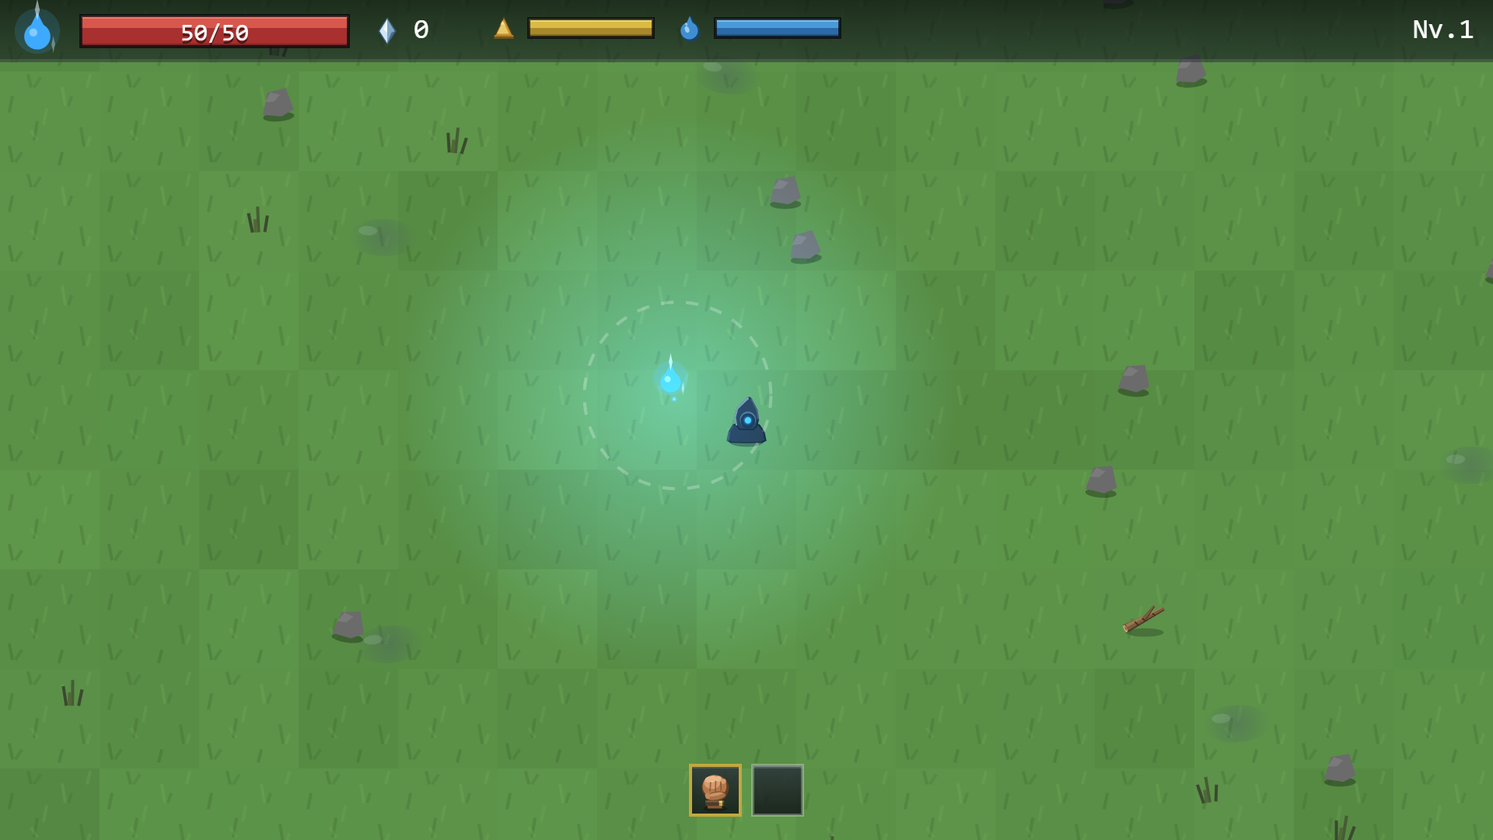
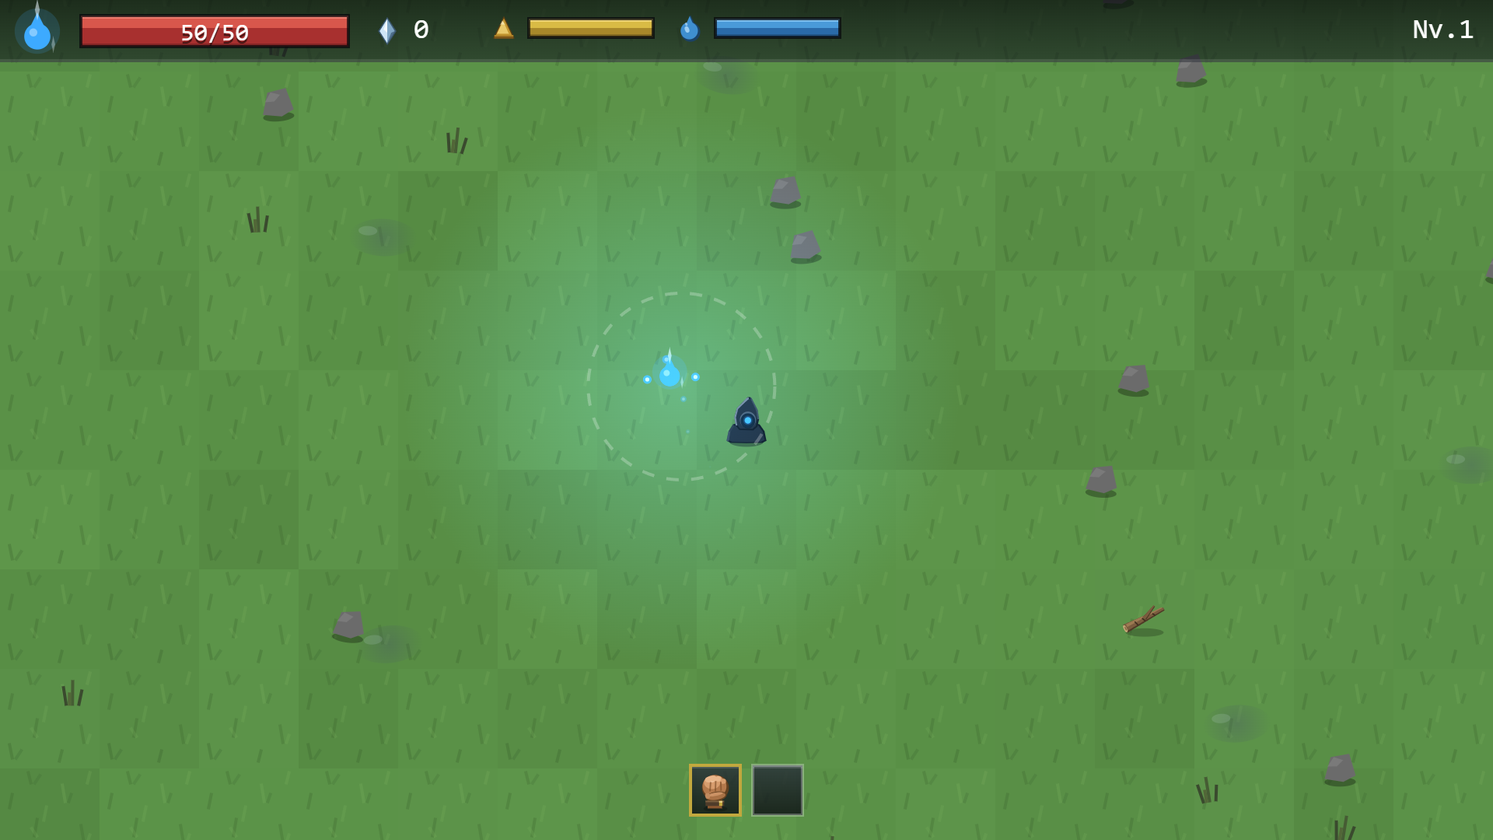
D-134 (Q-58) : en Haut, le follet a des etincelles et son halo respire
Un 4e levier, ornements (Bas 0, Moyen 1 neutre, Haut 2). Deux effets
declarent ornement_min: 2 : trois etincelles en orbite de trois quarts
autour de la silhouette du follet, et un halo dont la teinte respire. La
respiration ne touche jamais le trou perce dans le voile (regle de jeu,
D-35 intouchee). Module pur src/ornements.js ; Moyen dessine au pixel pres.

diff --git a/tests/test_d134_ornements_follet_2026-09-22.js b/tests/test_d134_ornements_follet_2026-09-22.js
@@ -1,0 +1,102 @@
+// `D-134` (`Q-58`) — les ornements du follet : des étincelles en orbite et un
+// halo qui respire, réservés au réglage Haut par un SEUIL déclaré en données.
+//
+// Ce qui se vérifie : le levier `ornements` existe et Moyen reste neutre ;
+// un effet n'existe qu'à partir de son `ornement_min` (Haut oui, Moyen et Bas
+// non), un effet sans seuil existe partout ; la respiration vaut 1 exactement
+// sans effet (Moyen dessine le halo au pixel près) et reste positive avec ;
+// l'orbite passe devant ET derrière ; le schéma refuse ce qui ferait un halo
+// éteint ou une information réservée à une machine. Aucun réglage épinglé
+// (`D-52`). Le chemin de DESSIN de Haut est parcouru par
+// `test_d112_levier_particules` (600 frames dessinées sous chaque preset).
+import assert from 'node:assert/strict';
+import path from 'node:path';
+import { fileURLToPath } from 'node:url';
+import { chargerCataloguesDepuisDisque } from '../src/io_node.js';
+import { SCHEMAS } from '../src/schemas.js';
+import { validerCatalogues, construireRegistre } from '../src/registry.js';
+import { valeurLevier, leviersNonNeutres } from '../src/qualite.js';
+import { ornementActif, etincellesOrbite, facteurRespiration } from '../src/ornements.js';
+
+const RACINE = path.join(path.dirname(fileURLToPath(import.meta.url)), '..');
+const { donnees, erreurs } = await chargerCataloguesDepuisDisque(path.join(RACINE, 'data'), Object.keys(SCHEMAS));
+assert.deepEqual(erreurs, []);
+assert.deepEqual(validerCatalogues(donnees, SCHEMAS), []);
+const registre = construireRegistre(donnees);
+const config = registre.obtenir('graphismes', 'graphismes_presets');
+const niveau = (preset) => valeurLevier(config, preset, 'ornements');
+
+const ornements = registre.tous('effets').filter((e) => e.ornement_min !== undefined);
+assert.ok(ornements.length >= 2, 'les deux ornements du follet sont déclarés');
+
+// --- 1. Le levier, et Moyen neutre ---------------------------------------
+{
+  assert.ok(config.leviers.includes('ornements'));
+  assert.deepEqual(leviersNonNeutres(config, 'moyen'), [], 'Moyen = l\'état actuel, ornements compris');
+  assert.ok(niveau('bas') <= niveau('moyen') && niveau('moyen') <= niveau('haut'), 'Bas ≤ Moyen ≤ Haut');
+  console.log('OK levier `ornements` déclaré, Moyen neutre, ordre des presets tenu');
+}
+
+// --- 2. Le seuil : Haut les a, Moyen et Bas non --------------------------
+{
+  for (const effet of ornements) {
+    assert.equal(ornementActif(effet, niveau('moyen')), null, `${effet.id} : absent en Moyen`);
+    assert.equal(ornementActif(effet, niveau('bas')), null, `${effet.id} : absent en Bas`);
+    assert.equal(ornementActif(effet, niveau('haut')), effet, `${effet.id} : présent en Haut`);
+  }
+  // Un effet d'avant le levier ne peut pas disparaître à cause de lui.
+  const sansSeuil = registre.obtenir('effets', 'effet_sillage_follet');
+  for (const p of ['bas', 'moyen', 'haut']) assert.equal(ornementActif(sansSeuil, niveau(p)), sansSeuil);
+  assert.equal(ornementActif(null, 5), null);
+  console.log(`OK ${ornements.length} ornements présents en Haut seulement ; sans seuil = partout`);
+}
+
+// --- 3. La respiration ----------------------------------------------------
+{
+  const halo = registre.obtenir('effets', 'effet_halo_follet');
+  for (const t of [0, 123, 999, 5000]) assert.equal(facteurRespiration(null, t), 1, 'sans effet : 1 exactement');
+  let min = Infinity;
+  let max = -Infinity;
+  for (let t = 0; t < halo.periode_ms; t += 10) {
+    const f = facteurRespiration(halo, t);
+    min = Math.min(min, f);
+    max = Math.max(max, f);
+  }
+  assert.ok(min > 0, 'le halo ne s\'éteint jamais');
+  assert.ok(max > 1 && min < 1, 'il respire autour de son intensité de Moyen');
+  console.log(`OK respiration : 1 sans effet, [${min.toFixed(2)} ; ${max.toFixed(2)}] avec`);
+}
+
+// --- 4. L'orbite passe devant et derrière --------------------------------
+{
+  const orbite = registre.obtenir('effets', 'effet_ornement_follet');
+  assert.deepEqual(etincellesOrbite(null, 0, 10, 10), []);
+  let devant = 0;
+  let derriere = 0;
+  for (let t = 0; t < orbite.periode_ms; t += 50) {
+    const e = etincellesOrbite(orbite, t, 100, 50);
+    assert.equal(e.length, orbite.nb_particules);
+    for (const p of e) {
+      if (p.devant) devant += 1; else derriere += 1;
+      assert.ok(p.alpha > 0 && p.alpha <= 1);
+      assert.ok(Math.abs(p.x - 100) <= orbite.rayon_orbite_px + 1e-9, 'autour du follet, jamais ailleurs');
+    }
+  }
+  assert.ok(devant > 0 && derriere > 0, 'une orbite, pas un anneau collé devant');
+  console.log('OK orbite : autour du follet, devant puis derrière');
+}
+
+// --- 5. Le schéma ---------------------------------------------------------
+{
+  const casse = (id, modif) => {
+    const copie = structuredClone(donnees);
+    modif(copie.effets.find((e) => e.id === id));
+    return validerCatalogues(copie, SCHEMAS).join('\n');
+  };
+  assert.match(casse('effet_halo_follet', (e) => { e.amplitude = 1; }), /amplitude/);
+  assert.match(casse('effet_halo_follet', (e) => { e.ornement_min = 1.5; }), /ornement_min/);
+  assert.match(casse('effet_texte_gain', (e) => { e.ornement_min = 2; }), /réservé aux effets "cosmetique"/);
+  assert.match(casse('effet_ornement_follet', (e) => { delete e.visuel; }), /visuel/);
+  assert.match(casse('effet_ornement_follet', (e) => { e.periode_ms = 0; }), /periode_ms/);
+  console.log('OK schéma : amplitude, seuil, rôle, visuel et période vérifiés au boot');
+}

diff --git a/src/schemas.js b/src/schemas.js
@@ -1337,9 +1337,70 @@ export const SCHEMAS = {
       // un nombre de particules, et il vit dans l'ÉCRAN et non dans le
       // monde. C'est la branche de plus annoncée juste au-dessus, et rien
       // ailleurs.
-      const TYPES = ['particules', 'texte', 'vol', 'clignement', 'curseur'];
+      // `orbite` et `respiration` (`Q-58`, `D-134`) : les ORNEMENTS du follet —
+      // des étincelles qui lui tournent autour, et un halo qui respire. Ni
+      // l'un ni l'autre ne vit hors de Haut aujourd'hui, et c'est `ornement_min`
+      // qui le dit, pas le type.
+      const TYPES = ['particules', 'texte', 'vol', 'clignement', 'curseur', 'orbite', 'respiration'];
       if (!TYPES.includes(entry.type)) {
         erreurs.push(`${path} > type doit valoir ${TYPES.map((t) => `"${t}"`).join(' ou ')}`);
+        return erreurs;
+      }
+
+      // `ornement_min` (`D-134`, facultatif, tout type) : le niveau du levier
+      // `ornements` à partir duquel l'effet existe. Absent = toujours. C'est un
+      // SEUIL et pas une liste de presets : l'effet ne connaît pas le mot
+      // « haut », il dit de combien d'ornement il a besoin, et le catalogue des
+      // presets dit combien chacun en donne. Seul un effet cosmétique peut en
+      // porter un : ce qui informe le joueur ne se réserve pas à une machine.
+      if (entry.ornement_min !== undefined) {
+        if (!Number.isInteger(entry.ornement_min) || entry.ornement_min < 0) {
+          erreurs.push(`${path} > ornement_min doit être un entier positif ou nul`);
+        } else if (entry.role !== 'cosmetique') {
+          erreurs.push(`${path} > ornement_min est réservé aux effets "cosmetique" (une information ne dépend pas du réglage)`);
+        }
+      }
+
+      if (entry.type === 'orbite') {
+        // Mêmes champs d'orbite que le curseur (`curseur.js#positionsOrbite`
+        // les lit tels quels), plus l'échelle d'une étincelle.
+        if (!Number.isInteger(entry.nb_particules) || entry.nb_particules < 0) {
+          erreurs.push(`${path} > nb_particules doit être un entier positif ou nul`);
+        }
+        if (typeof entry.rayon_orbite_px !== 'number' || entry.rayon_orbite_px < 0) {
+          erreurs.push(`${path} > rayon_orbite_px doit être un nombre positif ou nul`);
+        }
+        if (typeof entry.aplatissement !== 'number' || entry.aplatissement < 0 || entry.aplatissement > 1) {
+          erreurs.push(`${path} > aplatissement doit être un nombre entre 0 et 1 (1 = orbite ronde, 0 = orbite plate)`);
+        }
+        if (typeof entry.periode_ms !== 'number' || entry.periode_ms <= 0) {
+          erreurs.push(`${path} > periode_ms doit être un nombre strictement positif`);
+        }
+        if (entry.sens !== 1 && entry.sens !== -1) {
+          erreurs.push(`${path} > sens doit valoir 1 ou -1 (sens de rotation, jamais un facteur)`);
+        }
+        if (typeof entry.phase_rad !== 'number' || !Number.isFinite(entry.phase_rad)) {
+          erreurs.push(`${path} > phase_rad doit être un nombre fini`);
+        }
+        if (typeof entry.echelle !== 'number' || entry.echelle <= 0) {
+          erreurs.push(`${path} > echelle doit être un nombre strictement positif`);
+        }
+        if (typeof entry.visuel !== 'string') {
+          erreurs.push(`${path} > visuel (l'étincelle) est requis pour un effet de type "orbite"`);
+        }
+        return erreurs;
+      }
+
+      if (entry.type === 'respiration') {
+        // Un facteur qui oscille autour de 1 : 1 ± amplitude. Une amplitude
+        // ≥ 1 ferait passer le facteur par zéro (halo éteint à chaque souffle)
+        // ou sous zéro (un alpha négatif) — refusé au boot.
+        if (typeof entry.periode_ms !== 'number' || entry.periode_ms <= 0) {
+          erreurs.push(`${path} > periode_ms doit être un nombre strictement positif`);
+        }
+        if (typeof entry.amplitude !== 'number' || entry.amplitude < 0 || entry.amplitude >= 1) {
+          erreurs.push(`${path} > amplitude doit être un nombre dans [0, 1[ (le facteur reste positif)`);
+        }
         return erreurs;
       }
 

diff --git a/src/main.js b/src/main.js
@@ -18,6 +18,7 @@ import { creerSourceTactile } from './input/touch.js';
 import { creerPleinEcranTactile } from './plein_ecran.js';
 import { verrouillerMenuContextuel } from './souris.js';
 import { creerCurseur } from './curseur.js';
+import { ornementActif, etincellesOrbite, facteurRespiration } from './ornements.js';
 import { creerCoucheInput, etatNeutre } from './input/input.js';
 import { chargerScene, resoudreDeplacement, portailFranchi, trouverPositionLibrePlusProche } from './scene.js';
 import { calculerCamera } from './camera.js';
@@ -822,6 +823,8 @@ export function creerOrchestrateurGrotte({
       effetSillageCatalogue, levier('particules'), { capacite: CAPACITE_RESERVE },
     );
     sillageFollet = creerPoussiere(effetSillage);
+    effetOrnement = ornementActif(effetOrnementCatalogue, levier('ornements'));
+    effetHalo = ornementActif(effetHaloCatalogue, levier('ornements'));
     if (scene) regenererDecor();
     // Sans ça, l'ancien sol resterait à l'écran jusqu'au prochain
     // franchissement de tuile : la signature du calque (scène, échelle,
@@ -930,6 +933,15 @@ export function creerOrchestrateurGrotte({
     effetSillageCatalogue, levier('particules'), { capacite: CAPACITE_RESERVE },
   );
   let sillageFollet = creerPoussiere(effetSillage);
+  // `D-134` (`Q-58`) : les ornements du follet. Résolus UNE fois par preset,
+  // comme les réserves de particules : `null` sous le seuil, et le dessin ne
+  // fait alors qu'un test de présence. Même horloge que le vol du corps
+  // (`tempsVolFolletMs`), donc gelés sous UI sans une condition de plus.
+  const effetOrnementCatalogue = registre.obtenir('effets', 'effet_ornement_follet');
+  const visuelOrnement = registre.obtenir('visuels', effetOrnementCatalogue.visuel);
+  const effetHaloCatalogue = registre.obtenir('effets', 'effet_halo_follet');
+  let effetOrnement = ornementActif(effetOrnementCatalogue, levier('ornements'));
+  let effetHalo = ornementActif(effetHaloCatalogue, levier('ornements'));
 
   // MT_texte-flottant_2026-09-19 (`D-05`) : même patron exactement — réglages
   // en données (tous PROVISOIRES, à régler au ressenti par Xav) et réserve
@@ -3268,6 +3280,17 @@ export function creerOrchestrateurGrotte({
       sillage: companionActif
         ? { visuel: visuelSillage, teinte: companionActif.render.couleur, bouffees: bouffeesVisibles(sillageFollet) }
         : null,
+      // `D-134` : étincelles en orbite autour de la SILHOUETTE (là où l'œil
+      // voit le follet), teintes à sa couleur. Vide sous le seuil d'ornement.
+      ornementsFollet: follet && companionActif && effetOrnement
+        ? {
+          visuel: visuelOrnement,
+          teinte: companionActif.render.couleur,
+          etincelles: etincellesOrbite(
+            effetOrnement, tempsVolFolletMs, follet.x + corpsFollet.dx, follet.y + corpsFollet.dy,
+          ),
+        }
+        : null,
       // `undefined` (jamais un no-op) hors `?debug=fps` — même raison que
       // `surFrame` ci-dessous : render.js ne lit `performance.now()` que si
       // ce callback est fourni.
@@ -3279,6 +3302,8 @@ export function creerOrchestrateurGrotte({
       follet: follet ? { x: follet.x, y: follet.y } : null,
       rayonLumiereFollet: companionActif ? companionActif.rayon_lumiere : 0,
       couleurLumiereFollet: companionActif ? companionActif.render.couleur : null,
+      // `D-134` : 1 exactement sans l'effet, donc Moyen inchangé.
+      respirationLumiereFollet: facteurRespiration(effetHalo, tempsVolFolletMs),
     });
     // Signal des zones de Chaos (specs/07 palier D) : APRÈS le calque
     // d'obscurité — il se voit à travers la nuit sans percer le voile (on

diff --git a/src/render.js b/src/render.js
@@ -512,6 +512,10 @@ export function dessinerScene(ctx, {
   // fichier ne connaît ni le module, ni visuels.json par id. Défaut vide :
   // un appelant qui ne fournit rien dessine exactement comme avant.
   poussiere = null, sillage = null,
+  // `D-134` : étincelles en orbite autour du follet ({ visuel, teinte,
+  // etincelles: [{ x, y, devant, alpha, echelle }] }), déjà calculées par
+  // `ornements.js`. Absent = rien, donc un appelant d'avant dessine pareil.
+  ornementsFollet = null,
   // MT_mesure-saccades_2026-09-19, piste 1 : cf. dessinerCoucheStatique plus
   // haut — `undefined` par défaut, jamais fourni par le jeu réel hors
   // `?debug=fps` (ui/hud_debug.js).
@@ -650,7 +654,20 @@ export function dessinerScene(ctx, {
     }
   }
 
+  // `D-134` : une orbite se lit parce qu'elle passe DERRIÈRE puis DEVANT ce
+  // qu'elle entoure — d'où deux passes autour de la silhouette du follet.
+  const dessinerEtincelles = (devant) => {
+    if (!ornementsFollet) return;
+    for (const e of ornementsFollet.etincelles) {
+      if (e.devant !== devant) continue;
+      dessinerVisuel(ctx, ornementsFollet.visuel, e.x - camera.x, e.y - camera.y, {
+        teinte: ornementsFollet.teinte, alpha: e.alpha, echelle: e.echelle,
+      });
+    }
+  };
+
   if (follet) {
+    dessinerEtincelles(false);
     // `D-34` : `follet.echelle` est résolue par main.js (échelle de jeu en
     // données, interpolée à la sortie de la cinématique). Absente = 1, donc
     // un appelant qui l'ignore dessine comme avant.
@@ -658,6 +675,7 @@ export function dessinerScene(ctx, {
       teinte: follet.couleur,
       echelle: follet.echelle === undefined ? 1 : follet.echelle,
     });
+    dessinerEtincelles(true);
   }
 
   // Anneau d'attaque (§3.1 03_grotte-polish, spec 02_grotte.md §3.5 jamais
@@ -843,7 +861,13 @@ export function statsCanvasVoile() {
 // propre calque, on y perce des trous dégradés (coeur net, bord doux, cf.
 // constantes ci-dessus) en "destination-out", puis on compose ce calque
 // par-dessus la scène.
-export function dessinerObscurite(ctx, { scene, camera, follet, rayonLumiereFollet, couleurLumiereFollet }) {
+// `respirationLumiereFollet` (`D-134`, défaut 1) : un facteur qui module la
+// seule TEINTE chaude, jamais le trou percé dans le voile — ce que la lumière
+// révèle du sol est une règle de jeu (`rayon_lumiere`, `D-35`), ce qu'elle
+// colore est un ornement.
+export function dessinerObscurite(ctx, {
+  scene, camera, follet, rayonLumiereFollet, couleurLumiereFollet, respirationLumiereFollet = 1,
+}) {
   if (!scene.obscurite) return;
 
   // Taille déjà posée par dessinerScene un peu plus tôt dans la même frame
@@ -918,7 +942,7 @@ export function dessinerObscurite(ctx, { scene, camera, follet, rayonLumiereFoll
     ctx.save();
     ctx.globalCompositeOperation = 'lighter';
     const degrade = ctx.createRadialGradient(x, y, 0, x, y, rayonLumiereFollet);
-    degrade.addColorStop(0, `rgba(${r}, ${g}, ${b}, 0.35)`);
+    degrade.addColorStop(0, `rgba(${r}, ${g}, ${b}, ${0.35 * respirationLumiereFollet})`);
     degrade.addColorStop(1, `rgba(${r}, ${g}, ${b}, 0)`);
     ctx.fillStyle = degrade;
     ctx.beginPath();

diff --git a/src/ornements.js b/src/ornements.js
@@ -1,0 +1,45 @@
+// Ornements du follet (`Q-58`, `D-134`) : ce que le réglage Haut ajoute au
+// follet, et rien d'autre. Des étincelles qui lui tournent autour, et un halo
+// qui respire.
+//
+// Module PUR : aucun canvas, aucune horloge propre, aucun preset. Il reçoit un
+// NOMBRE (le niveau du levier `ornements`) et un temps, et rend des positions
+// et des facteurs. Le seul endroit qui sait que « haut » donne 2 est le
+// catalogue des presets ; le seul qui sait qu'un effet en demande 2 est
+// `effets.json`. Même patron que `poussiere.js` et `decor.js`.
+import { positionsOrbite } from './curseur.js';
+
+// Un effet existe-t-il à ce niveau d'ornement ? `ornement_min` absent = oui,
+// toujours : un effet d'avant `D-134` ne peut pas disparaître parce qu'on a
+// ajouté un levier. Rend l'effet tel quel ou `null` — l'appelant n'a donc
+// qu'un test de présence à faire, jamais une comparaison à recopier.
+export function ornementActif(effet, niveau) {
+  if (!effet) return null;
+  if (effet.ornement_min === undefined) return effet;
+  return niveau >= effet.ornement_min ? effet : null;
+}
+
+// Les étincelles autour d'un point, à l'instant `tMs`. Même géométrie que
+// l'orbite du curseur (ellipse de trois quarts, répartition régulière) : une
+// seule définition, lue deux fois. `devant` dit si l'étincelle passe devant
+// le follet (dessinée après lui) ou derrière (avant lui) — c'est ce qui fait
+// lire une ORBITE et non un anneau collé sur la silhouette. L'alpha suit la
+// profondeur pour la même raison : ce qui passe derrière s'éteint un peu.
+export function etincellesOrbite(effet, tMs, x, y) {
+  if (!effet) return [];
+  return positionsOrbite(effet, tMs).map((p) => ({
+    x: x + p.dx,
+    y: y + p.dy,
+    devant: p.profondeur >= 0,
+    alpha: 0.55 + 0.45 * (p.profondeur + 1) / 2,
+    echelle: effet.echelle,
+  }));
+}
+
+// Facteur de respiration à l'instant `tMs` : 1 ± amplitude, sinusoïdal. Sans
+// effet, 1 exactement, donc le multiplier ne change rien : Moyen dessine le
+// halo au pixel près comme avant.
+export function facteurRespiration(effet, tMs) {
+  if (!effet) return 1;
+  return 1 + effet.amplitude * Math.sin((tMs / effet.periode_ms) * Math.PI * 2);
+}

diff --git a/docs/DOC_suivi-dettes.md b/docs/DOC_suivi-dettes.md
@@ -428,6 +428,7 @@ Lecture : la cible de `Q-62` est tenue sur son premier point (le Nv.5 ne tombe p
 | D-131 | **Les murs de la Maison** | 2026-09-22 | **close le 22/09** — données seules. `tile_mur_maison` n'avait qu'un aplat `#7a5c3e` ; il porte un appareil de **moellons** (trois assises inégales, l'aplat devient le mortier). La pierre plutôt que le bois, parce que la tuile sert aux quatre côtés : **choix `[OUVERT]`**, soumis à Xav dans `V-74`. Motif continu d'une case à l'autre (l'assise du milieu chevauche le bord). Deux itérations (la première faisait mur de briques et grille). Test : le mur tient dans sa cellule sur les quatre bords. Verdict en jeu : `V-74` |
 | D-132 | **Le toit de la Maison** | 2026-09-22 | **close le 22/09** — `render.js`, `main.js`, données. Le toit ne lisait qu'une couleur ; il lit désormais le `visuel` de sa tuile, posé en **un seul remplissage** par motif répété (`createPattern`, pixels physiques entiers, ancré au coin du toit), jamais cellule par cellule. Aplat d'avant en repli (sans visuel, ou `createPattern` à `null`). Motif `visuel_toit_bardeaux` : bardeaux à bas arrondi, raccordés d'une cellule à l'autre (test). Trois itérations (vannerie, briques, écailles). Le faux contexte de `D-71` rend désormais un motif, pour que ce chemin soit parcouru. **Touche `render.js`** : se clôt par la validation de Xav en jeu, `V-74` |
 | D-133 | **Des objets au sol et une flaque de décor à l'intérieur de la Maison** | 2026-09-22 | **clos le 22/09** — qualifié : c'était **`D-106`**, et lui seul. Le caillou, la touffe et la flaque étaient du **décor** (`visuel_rocher_petit`, `visuel_herbe`, `visuel_flaque`) ; les objets ramassables excluent déjà la zone `maison` (`items.json > spawn.zones_exclues`), l'hypothèse `tirerPositionLibre` tombe. Corrigé avec `D-106` |
+| D-134 | **Les ornements du follet et son halo, en Haut** (réponse à `Q-58`, go de Xav le 22/09 : « tout ce qui touche aux animations […] réglage Haut ») | 2026-09-22 | **close le 22/09** — un 4ᵉ levier, `ornements` (Bas 0, Moyen 1 = neutre, Haut 2), et deux effets qui déclarent **`ornement_min: 2`** : trois étincelles teintes à la couleur du follet, en orbite de trois quarts qui passe devant puis derrière la silhouette (`effet_ornement_follet`, géométrie de l'orbite du curseur réutilisée), et un halo qui **respire** (`effet_halo_follet`, ±35 % sur 2,8 s). La respiration ne module que la **teinte** additive, jamais le trou percé dans le voile : ce que la lumière révèle est une règle de jeu (`rayon_lumiere`, `D-35` reste intouchée). Module pur `src/ornements.js` ; horloge du vol du follet, donc gelé sous UI sans condition de plus. Moyen dessine au pixel près comme avant (facteur 1 exactement, aucun effet actif). Mesuré en marchant sous Haut : `dessiner()` 1,16 ms, 0 frame > 20 ms. `tests/test_d134_ornements_follet_2026-09-22.js`. **`Q-58` reste à Xav** |
 | D-103 | **Une ligne de fiche est une chaîne, donc aucune fiche ne montre d'image** (T10) | 2026-09-22 | **close le 22/09** — relevée par Xav en lisant `Q-49`. Le remède est celui que la dette annonçait, dans l'ordre : (1) une ligne de fiche accepte `{ texte, icone? }` en plus de la chaîne, ramenées à **une** forme par une fonction pure (`ecran_fiches.js#normaliserLigneFiche`) — la chaîne reste la forme courte, les quatre-vingts lignes qui n'ont pas d'image n'ont pas bougé d'un mot ; (2) la **monnaie** a enfin où déclarer sa silhouette (`data/monnaies.json`, réponse minimale à `Q-49` : un id, une icône, **rien d'autre** — `D-68` tient, une monnaie n'est toujours pas un item de poche), et l'id `visuel_icone_eclat` a **quitté `main.js`**, vérifié par test. Profitent du (1) du même coup : les **ingrédients** d'une recette, chacun avec la silhouette de sa tuile de Poche. Le texte ne change nulle part — l'icône s'**ajoute**, elle ne remplace pas le nom, qui reste ce que lit un joueur qui ne reconnaît pas encore la forme. Trou bouché au passage : `menu.fiche.cout_eclats` était composée depuis `D-66` **sans passer par le contrôle de démarrage FR/EN**. Capture : `docs/captures/fiches-2026-09-22/`. Verdict en jeu : `V-72` |
 | D-35 | **Lumière du follet ramenée au rayon de l'aura, à l'extérieur seulement.** « L'effet est très bien mais il éclaire presque tout l'écran, ce qui casse l'effet nocturne » (Xav, 19/09) | 2026-09-22 | **close le 22/09 par Xav** (verdict de Xav, `docs/BRIEF_file-inventaire_2026-09-22.md` §5) : « lumière parfaite ». Elle ne bougera que pour un **biome sombre ou brumeux** futur, que Xav écrira lui-même (avec une annexe ou une carte) — la valeur d'essai du 20/09 (rayon 100 px, posée par Xav lui-même) devient donc celle en vigueur. **Jamais par initiative.** Rappel de l'histoire : le ticket d'origine avait été **annulé** par Xav au matin du 20/09 (`git revert 9997cec`) |
 

diff --git a/docs/JOURNAL_2026-09-22_reglage-haut.md b/docs/JOURNAL_2026-09-22_reglage-haut.md
@@ -43,3 +43,4 @@ nuit) sous Moyen **puis** sous Haut, forcés par `?qualite=`. Captures :
 | (ce commit) | `D-106`, `D-133` | `sur` sur un motif de décor ; rejet sans re-tirage (préfixe `D-114` intact) ; plus rien sur le parquet |
 | (ce commit) | `D-116` (1/3) | Haut : `densite_decor` 1 → **10** (le « ×10 » de `Q-53`), ~25 à 30 motifs par écran au lieu de 3 ou 4. Essais : ×5 ne se voyait pas, ×12 n'apportait rien de plus que ×10. Coût mesuré en marchant (`cout_calque.mjs`) : reconstruction moyenne **4,28 → 4,91 ms**, pic 5,8 → 7,0 ms, **0 frame > 20 ms** dans les deux cas. Réserve : un quart des motifs sont des cailloux gris, ce sont eux qui se voient le plus |
 | (ce commit) | `D-116` (2/3) | Le levier `particules`, au-dessus de 1, **densifie** : intervalle d'émission ÷ m, durée de vie × √m, réserve × m√m. Avant : Haut rendait Moyen **au pixel près** en marche (capture `avant_marche_*` : 2 bouffées dans les deux). Après : 5 à 6 bouffées, traînée plus longue (`apres_marche_haut`). Moyen reste le catalogue au champ près (test `D-112` §1), et le test exige désormais que Haut montre **strictement plus** de bouffées que Moyen |
+| (ce commit) | `D-134` (`Q-58`) | 4ᵉ levier `ornements` (0 / 1 / 2) ; deux effets à `ornement_min: 2` : trois étincelles en orbite autour du follet (devant puis derrière lui), halo qui respire (±35 %, teinte seule, jamais le trou dans le voile). Moyen au pixel près. Captures `apres_pelouse_*`, `apres_nuit_*` |
